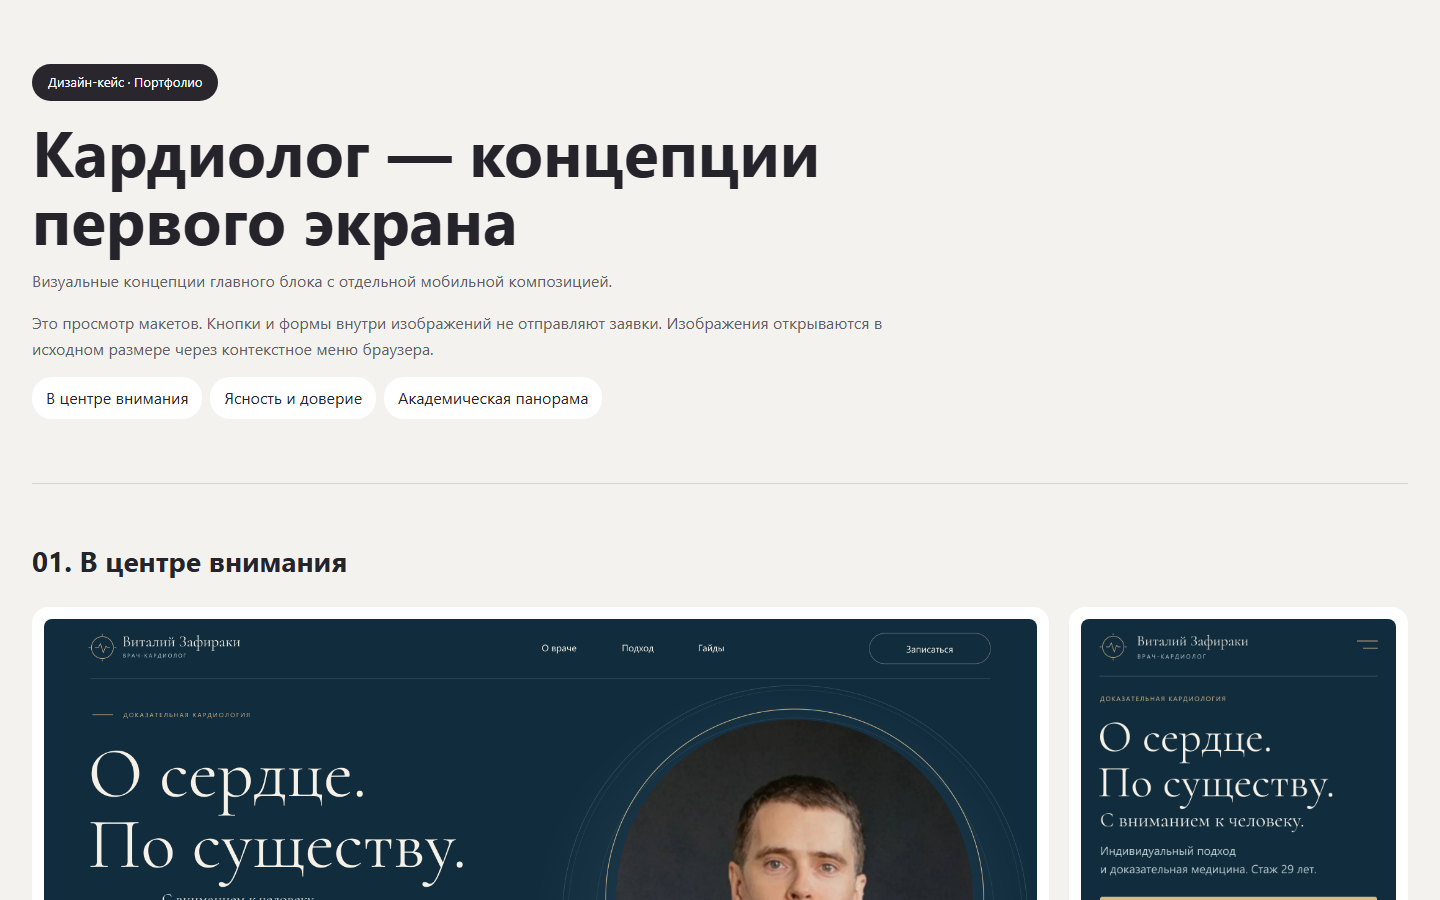
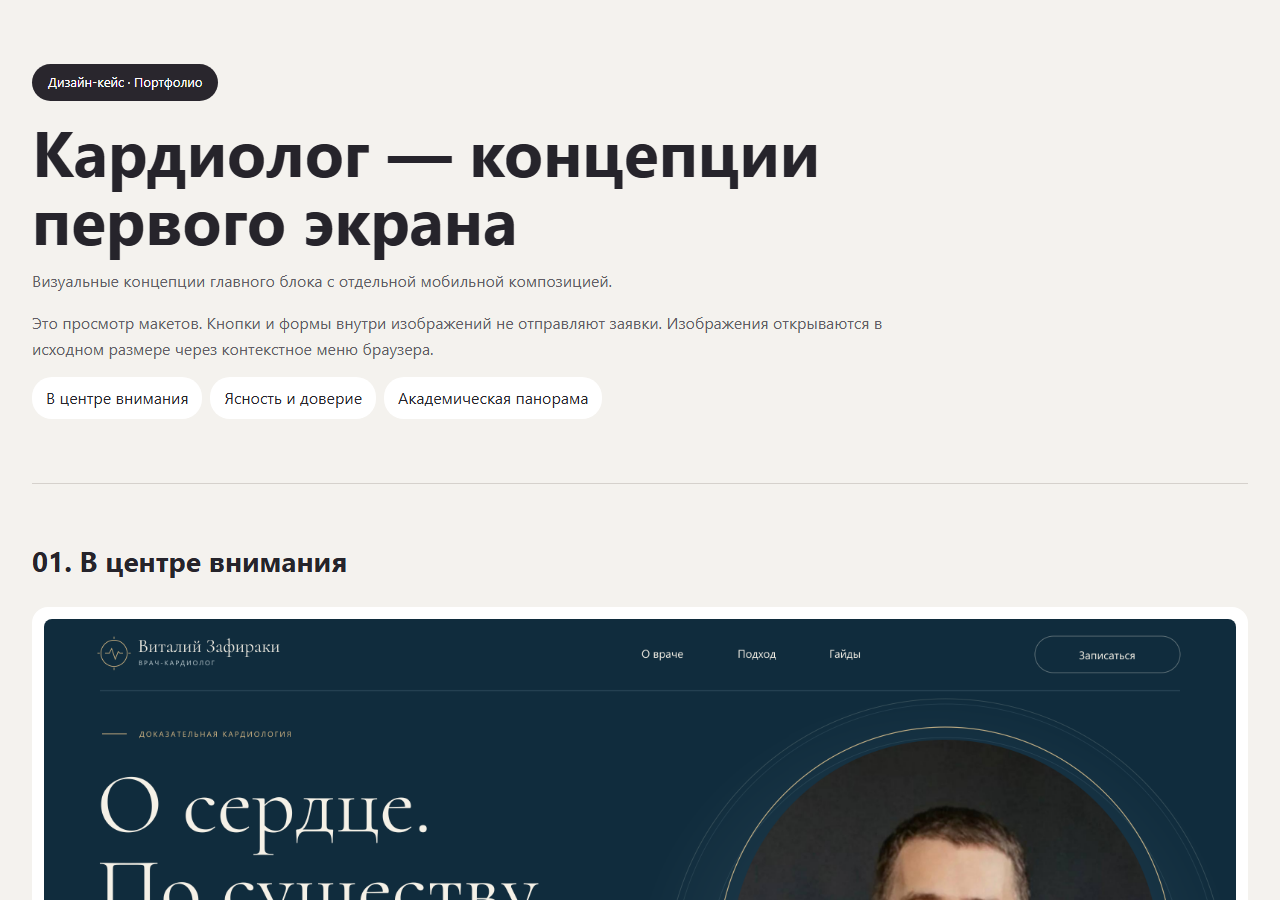
Improve desktop presentation and project browsing

diff --git a/index.html b/index.html
@@ -4,4 +4,7 @@
 .screen-viewer{width:min(1400px,94vw);max-height:94dvh;padding:20px;border:1px solid #c8c9c1;border-radius:16px;background:#f4f2ee;color:#26242b}
 .screen-viewer::backdrop{background:#101512c9}.screen-viewer>button{float:right;min-height:44px;padding:8px 14px;border:1px solid #b6bcb1;border-radius:8px;background:#fff;cursor:pointer;font:inherit}.screen-viewer>h2{margin:0 120px 12px 0;font-size:20px}.screen-viewer>a{display:inline-block;min-height:44px;color:#345c44}.screen-viewer>img{display:block;width:100%;height:auto;border-radius:8px}
 @media(max-width:600px){header{padding-top:32px}header,main,footer{padding-inline:16px}section{padding:18px}.screen-viewer{padding:14px}.screen-viewer>h2{font-size:17px;margin-right:110px}}
+
+/* Desktop screen presentation: give the computer layout its own full-width row. */
+@media(min-width:801px){.screens,.pair{grid-template-columns:minmax(0,1fr)}.screens figure:nth-child(2),.pair figure:nth-child(2){width:min(100%,390px);justify-self:center}figcaption{font-size:16px}.screen-viewer{width:96vw;max-width:1800px}}
 </style><header><span class="tag">Дизайн-кейс · Портфолио</span><h1>Кардиолог — концепции первого экрана</h1><p>Визуальные концепции главного блока с отдельной мобильной композицией.</p><p>Это просмотр макетов. Кнопки и формы внутри изображений не отправляют заявки. Изображения открываются в исходном размере через контекстное меню браузера.</p><nav><a href="#variant-1">В центре внимания</a><a href="#variant-2">Ясность и доверие</a><a href="#variant-3">Академическая панорама</a></nav></header><main><section id="variant-1"><h2>01. В центре внимания</h2><div class="screens"><figure><img src="assets/01-01_focus_desktop.png" alt="В центре внимания — Компьютерная версия" loading="lazy" width="3200" height="2080"><figcaption>Компьютерная версия</figcaption></figure><figure><img src="assets/01-01_focus_mobile.png" alt="В центре внимания — Мобильная версия" loading="lazy" width="860" height="2700"><figcaption>Мобильная версия</figcaption></figure></div></section><section id="variant-2"><h2>02. Ясность и доверие</h2><div class="screens"><figure><img src="assets/02-02_clarity_desktop.png" alt="Ясность и доверие — Компьютерная версия" loading="lazy" width="3200" height="2080"><figcaption>Компьютерная версия</figcaption></figure><figure><img src="assets/02-02_clarity_mobile.png" alt="Ясность и доверие — Мобильная версия" loading="lazy" width="860" height="2700"><figcaption>Мобильная версия</figcaption></figure></div></section><section id="variant-3"><h2>03. Академическая панорама</h2><div class="screens"><figure><img src="assets/03-03_atlas_desktop.png" alt="Академическая панорама — Компьютерная версия" loading="lazy" width="3200" height="2080"><figcaption>Компьютерная версия</figcaption></figure><figure><img src="assets/03-03_atlas_mobile.png" alt="Академическая панорама — Мобильная версия" loading="lazy" width="860" height="2700"><figcaption>Мобильная версия</figcaption></figure></div></section></main><footer>Роман Кабанов · Дизайн и адаптивные композиции · HTML-галерея макетов</footer><script src="viewer.js"></script></html>
